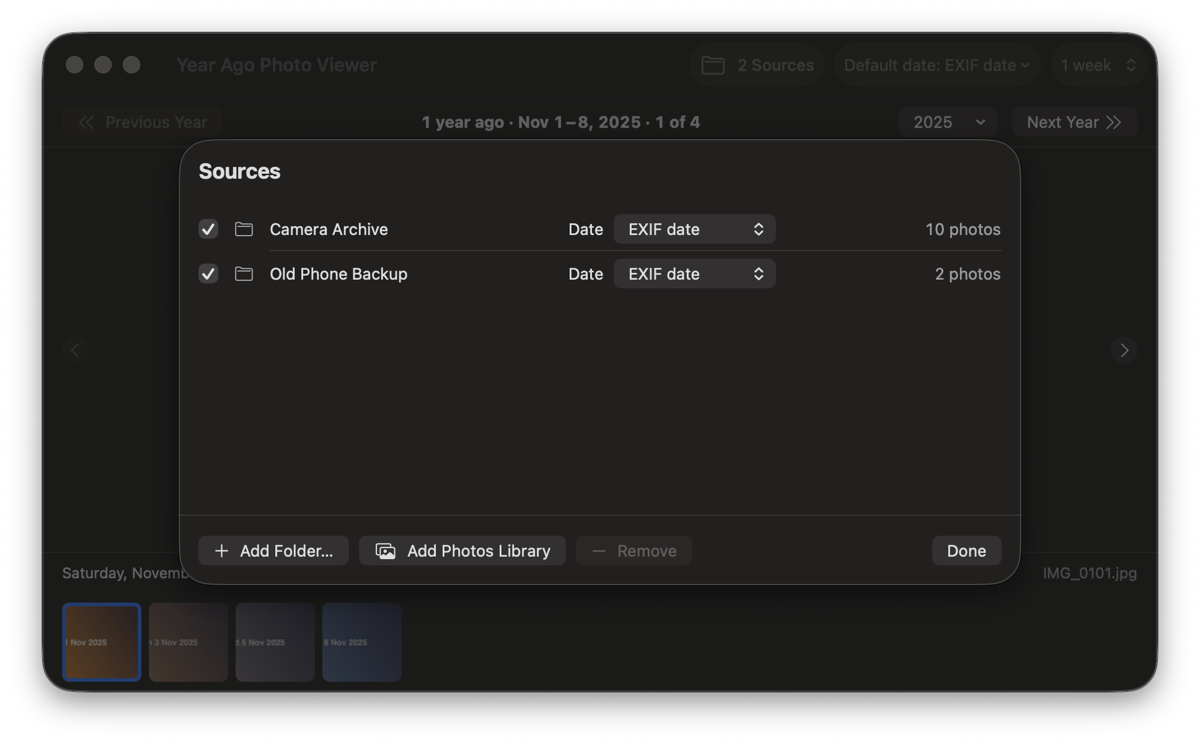
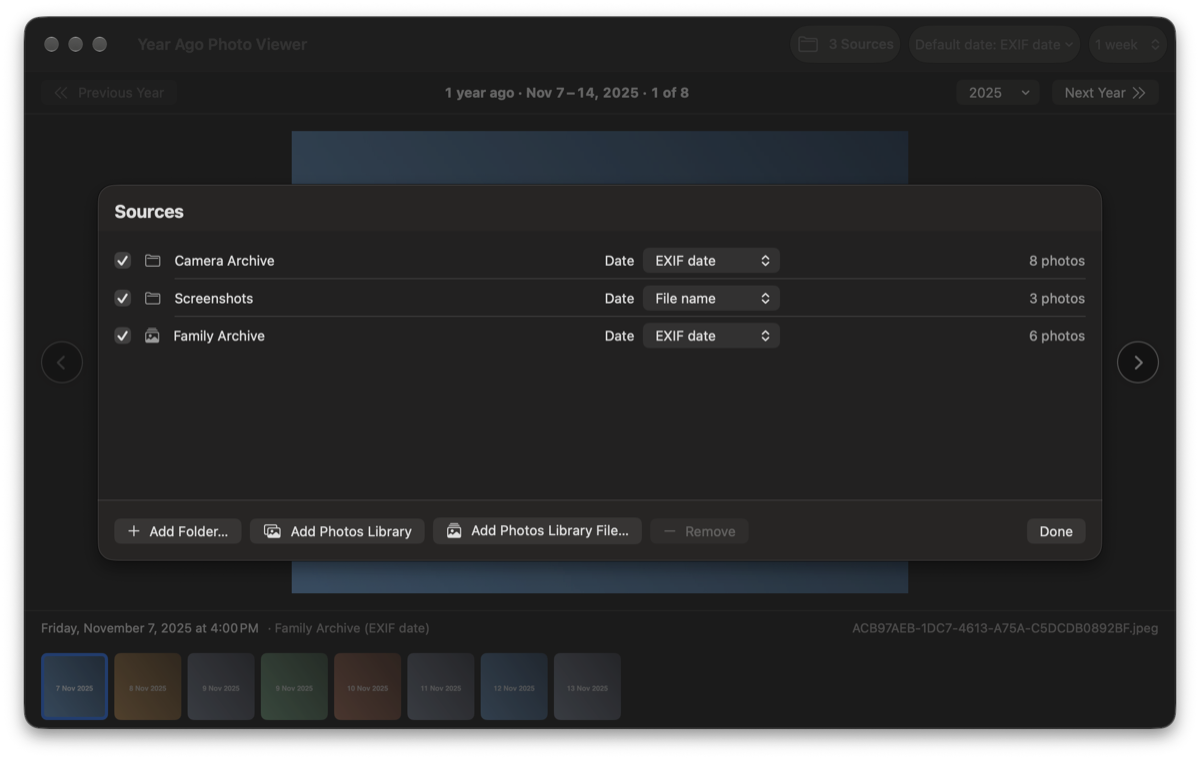
README: check for accuracy; new Sources screenshot
Mention library files where drives, settings, and manual tests come up,
note that shared photos may show from a library file, and that the
system-library warning needs Photos access. The Sources screenshot now
shows two folders and a Photos library file, all made-up samples.

diff --git a/README.md b/README.md
@@ -21,12 +21,12 @@ years. Open it to step through last year's photos from the past week. Press
   skipped.
 - **Fast.** A saved index means later launches only check for changes. New
   photos appear within seconds.
-- **Drives come and go.** A folder on an unplugged drive shows as offline and
-  comes back when the drive does.
+- **Drives come and go.** A folder or library file on an unplugged drive
+  shows as offline and comes back when the drive does.
 - **At a glance.** An "On This Day" menu bar item shows a photo from a year
   ago. A desktop widget shows one, three, or six photos.
 
-![The Sources panel with two folders](docs/images/sources.png)
+![The Sources panel with two folders and a Photos library file](docs/images/sources.png)
 
 ## Installing
 
@@ -88,7 +88,8 @@ App Groups need a development team, so:
 4. **Change year.** Use **Next Year** / **Previous Year**, ⌘] / ⌘[, or the
    year menu.
 5. **Adjust.** Pick the window length (1–6 weeks) in the toolbar. In
-   **Settings** (⌘,) choose whether to show years with no photos.
+   **Settings** (⌘,) choose whether to show years with no photos, and
+   whether to show the menu bar item.
 
 Each source has its own date setting in the Sources panel. The toolbar's
 **Default date** applies to new sources, and can apply to all at once.
@@ -103,11 +104,13 @@ Photos permission. Compared with the Photos library source:
 - **On disk only.** With Optimize Mac Storage on, originals kept only in
   iCloud are missing.
 - **Everything.** Recently Deleted and Hidden photos show too.
+- **Shared photos.** Some photos shared with you may show. The Photos
+  library source leaves those out.
 - **Dates.** Dates come from the files, so date fixes made in Photos don't
   show. The File name date isn't offered: Photos renames originals.
 
 If the file is the library Photos uses, and the Photos library source is
-also added, the app says so. Photos in both show once.
+also added with access, the app says so. Photos in both show once.
 
 ## Testing
 
@@ -124,7 +127,8 @@ YAPV_SCALE_TEST=1 swift test --package-path Packages/YearAgoCore -c release --fi
 ```
 
 [docs/manual-test-checklist.md](docs/manual-test-checklist.md) covers what unit
-tests can't: the Photos library, permissions, drives, and the widget.
+tests can't: the Photos library, library files, permissions, drives, and the
+widget.
 
 ## Making a release
 
